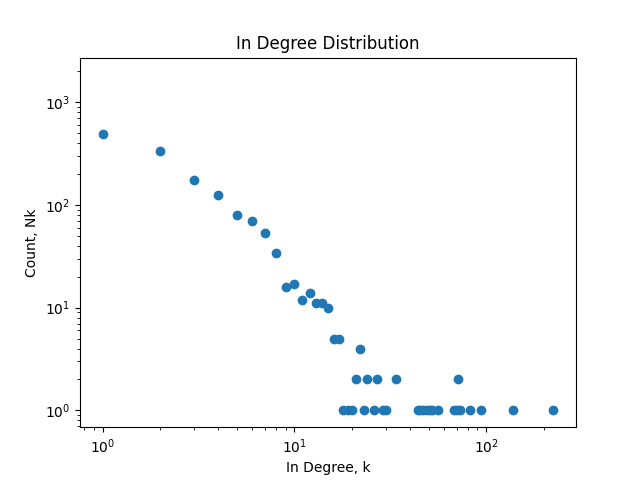
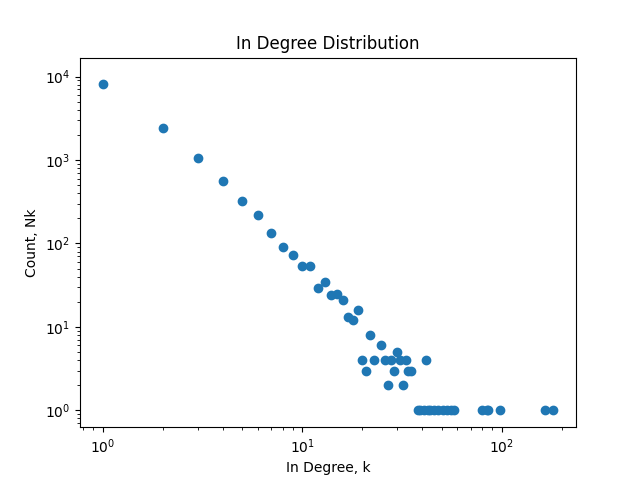
create network with larger dataset and analyzed new network created

diff --git a/create_network.py b/create_network.py
@@ -3,6 +3,7 @@ import networkx as nx
 import pandas as pd
 import matplotlib.pyplot as plt
 from network_analysis import get_network_analysis
+from data_preprocess_ops.filter_comments import filter_comments
 
 
 def set_interaction(id, parent_id, comments_df, posts_df, has_interaction):
@@ -59,16 +60,20 @@ def filter_comments_df(comments_df):
     # delete all rows that have "[deleted]" and "AutoModerator" author
     comments_df = comments_df[~comments_df.author.isin(['[deleted]', 'AutoModerator'])]
     comments_df = comments_df.reset_index(drop=True)
+    # filter out comments and remove duplicate comments
+    ignored_text = ["Your post or comment has been removed", "Microsoft SQL server"]
+    comments_df = filter_comments(comments_df, 'body', ignored_text)
+    comments_df = comments_df.drop_duplicates(subset=['body'], keep='first')
     return comments_df
 
 
 def get_df():
-    coc_path = os.path.join("comment_data", "coronavirus_all_comments.csv")
-    comments_df = pd.read_csv(coc_path)
-    comments_df = comments_df[['author', 'id', 'link_id', 'parent_id', 'subreddit_id', 'body']]
+    comments_path = os.path.join("coronavirus_comments.csv")
+    comments_df = pd.read_csv(comments_path, dtype={"author": "string", "id": "string", "link_id": "string", "parent_id": "string", "body": "string"})
+    comments_df = comments_df[['author', 'id', 'link_id', 'parent_id', 'body']]
 
-    post_path = os.path.join("submission_data", "coronavirus_submissions.csv")
-    posts_df = pd.read_csv(post_path)
+    posts_path = os.path.join("coronavirus_submission.csv", )
+    posts_df = pd.read_csv(posts_path, dtype={"author": "string", "id": "string"})
     posts_df = posts_df[['author', 'id']]
 
     return comments_df, posts_df

diff --git a/data_preprocess_ops/filter_comments.py b/data_preprocess_ops/filter_comments.py
@@ -1,0 +1,3 @@
+def filter_comments(df, column, drop_values):
+    filtered_comments = df[~df[column].str.contains('|'.join(drop_values))]
+    return filtered_comments
